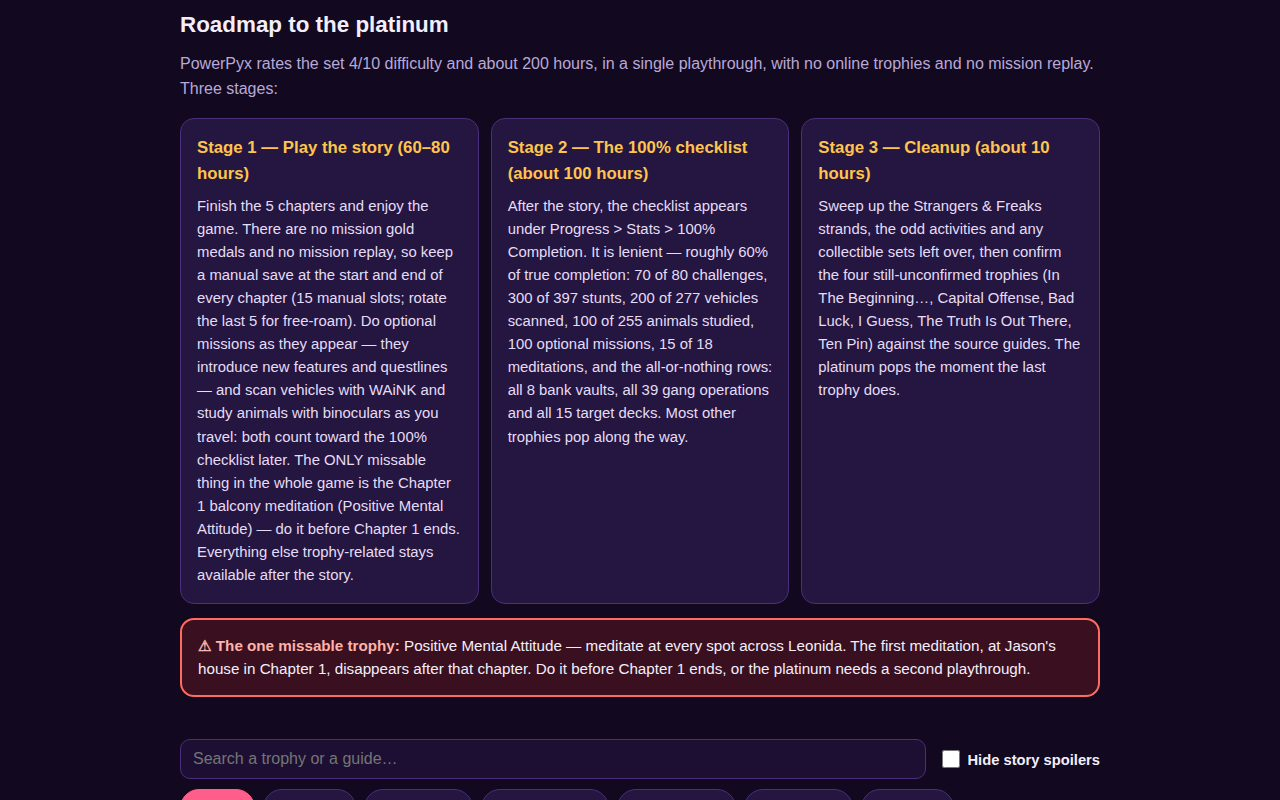
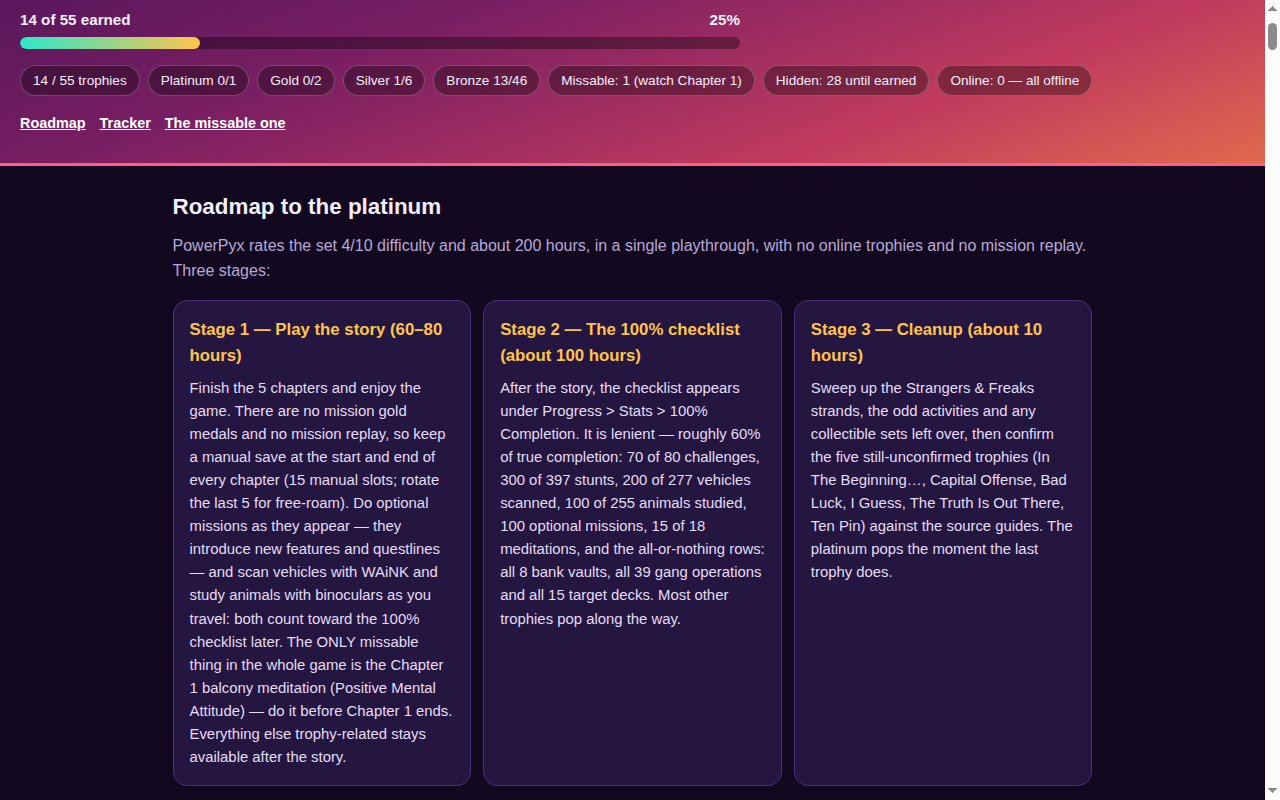
Round 3: hidden trophies flagged; README bounty link in Markdown; five unconfirmed fixed
- README: bounty page link as Markdown link (kit repo_readme recommendation)
- Data: hiddenIds for the 28 trophies PlayStation hides until earned
  (verified against EGamers hidden list; grade split 27 bronze + 1 gold
  matches the official totals); Hidden tag on each card + stats chip
- Accuracy: four -> five still-unconfirmed trophies (note, roadmap
  stage 3, sources note) — PowerPyx lists 5 as not yet known
- Four thinnest story guides (Break the Bank, Family Matters, DWNFALL,
  Snow Storm) expanded 133-146 -> 322-335 chars: hidden status +
  no-mission-replay manual-save step
- Screenshots retaken: new cover shows hero + progress + stats chips

diff --git a/app/app.js b/app/app.js
@@ -22,6 +22,7 @@ const statsEl = document.getElementById('stats');
 
 let doc = null;
 let trophies = [];
+let hiddenIds = new Set();
 let earned = loadEarned();
 let activeKind = params.get('kind') || 'all';
 let revealed = new Set();
@@ -78,6 +79,7 @@ function renderStats() {
     `Silver ${gotByGrade.silver || 0}/${totalByGrade.silver || 0}`,
     `Bronze ${gotByGrade.bronze || 0}/${totalByGrade.bronze || 0}`,
     `Missable: ${trophies.filter((t) => t.missable).length} (watch Chapter 1)`,
+    `Hidden: ${hiddenIds.size} until earned`,
     `Online: ${onlineCount} — all offline`,
   ];
   statsEl.replaceChildren(...chips.map((c) => {
@@ -243,6 +245,12 @@ function buildCard(t) {
     m.textContent = '⚠ Missable';
     tags.append(m);
   }
+  if (hiddenIds.has(t.id)) {
+    const h = document.createElement('span');
+    h.className = 'tag hidden';
+    h.textContent = 'Hidden';
+    tags.append(h);
+  }
   const stageTag = document.createElement('span');
   stageTag.className = 'tag stage';
   stageTag.textContent = stageLabel(t.stage);
@@ -364,6 +372,7 @@ async function init() {
   if (!res.ok) throw new Error(`could not load ${DATA_URL}: ${res.status}`);
   doc = await res.json();
   trophies = doc.trophies;
+  hiddenIds = new Set(Array.isArray(doc.hiddenIds) ? doc.hiddenIds : []);
 
   if (params.get('spoiler') === 'on') spoilerEl.checked = true;
   if (params.get('spoiler') === 'off') spoilerEl.checked = false;

diff --git a/app/index.html b/app/index.html
@@ -66,7 +66,7 @@
 
   <section class="sources-note">
     <h2>Where the facts come from</h2>
-    <p>Official trophy names, descriptions and grades are shown as PlayStation publishes them (the list matches Exophase and PSNProfiles). Every guide is written for this page in our own words, and every fact in it names its source beside it — the full list of sources is below. Four trophies were still unconfirmed by every guide at launch; those say so honestly instead of guessing. <strong>This is an unofficial fan guide, not affiliated with Rockstar Games, and it uses no Rockstar logo, artwork or game screenshots.</strong></p>
+    <p>Official trophy names, descriptions and grades are shown as PlayStation publishes them (the list matches Exophase and PSNProfiles). Every guide is written for this page in our own words, and every fact in it names its source beside it — the full list of sources is below. Five trophies were still unconfirmed by every guide at launch; those say so honestly instead of guessing. 28 of the 55 stay hidden on PlayStation until earned, and those carry a Hidden tag on their card. <strong>This is an unofficial fan guide, not affiliated with Rockstar Games, and it uses no Rockstar logo, artwork or game screenshots.</strong></p>
     <ul id="sourceList"></ul>
   </section>
 </main>

diff --git a/app/style.css b/app/style.css
@@ -223,6 +223,7 @@ button.danger { border-color: var(--danger); color: #ffb3ab; }
   color: var(--muted);
 }
 .tag.missable { border-color: var(--danger); color: #ffb3ab; }
+.tag.hidden { border-color: #8d7bd8; color: #c9bfff; }
 .tag.stage { border-color: var(--teal); color: var(--teal); }
 
 .guide-body { margin-top: 12px; border-top: 1px solid var(--line); padding-top: 12px; }

diff --git a/README.md b/README.md
@@ -6,7 +6,7 @@
 
 An offline guide and tracker for all **55 PlayStation 5 trophies** of Grand Theft Auto VI, built for the [make.fun GTA 6 trophy guide bounty](https://make.fun/c/gta6-trophy-guide-01).
 
-Bounty page: https://make.fun/bounty/gta6-trophy-guide-01
+Bounty page: [gta6-trophy-guide-01](https://make.fun/bounty/gta6-trophy-guide-01)
 
 - **Every trophy** with its official name, description and grade, plus a guide in our own words that cites its sources (PowerPyx, KeenGamer, Output Lag, GTA Zone, EGamers, GTA Vice City Hub).
 - **Roadmap to the platinum** in 3 stages (story → 100% checklist → cleanup), built from the official descriptions.
